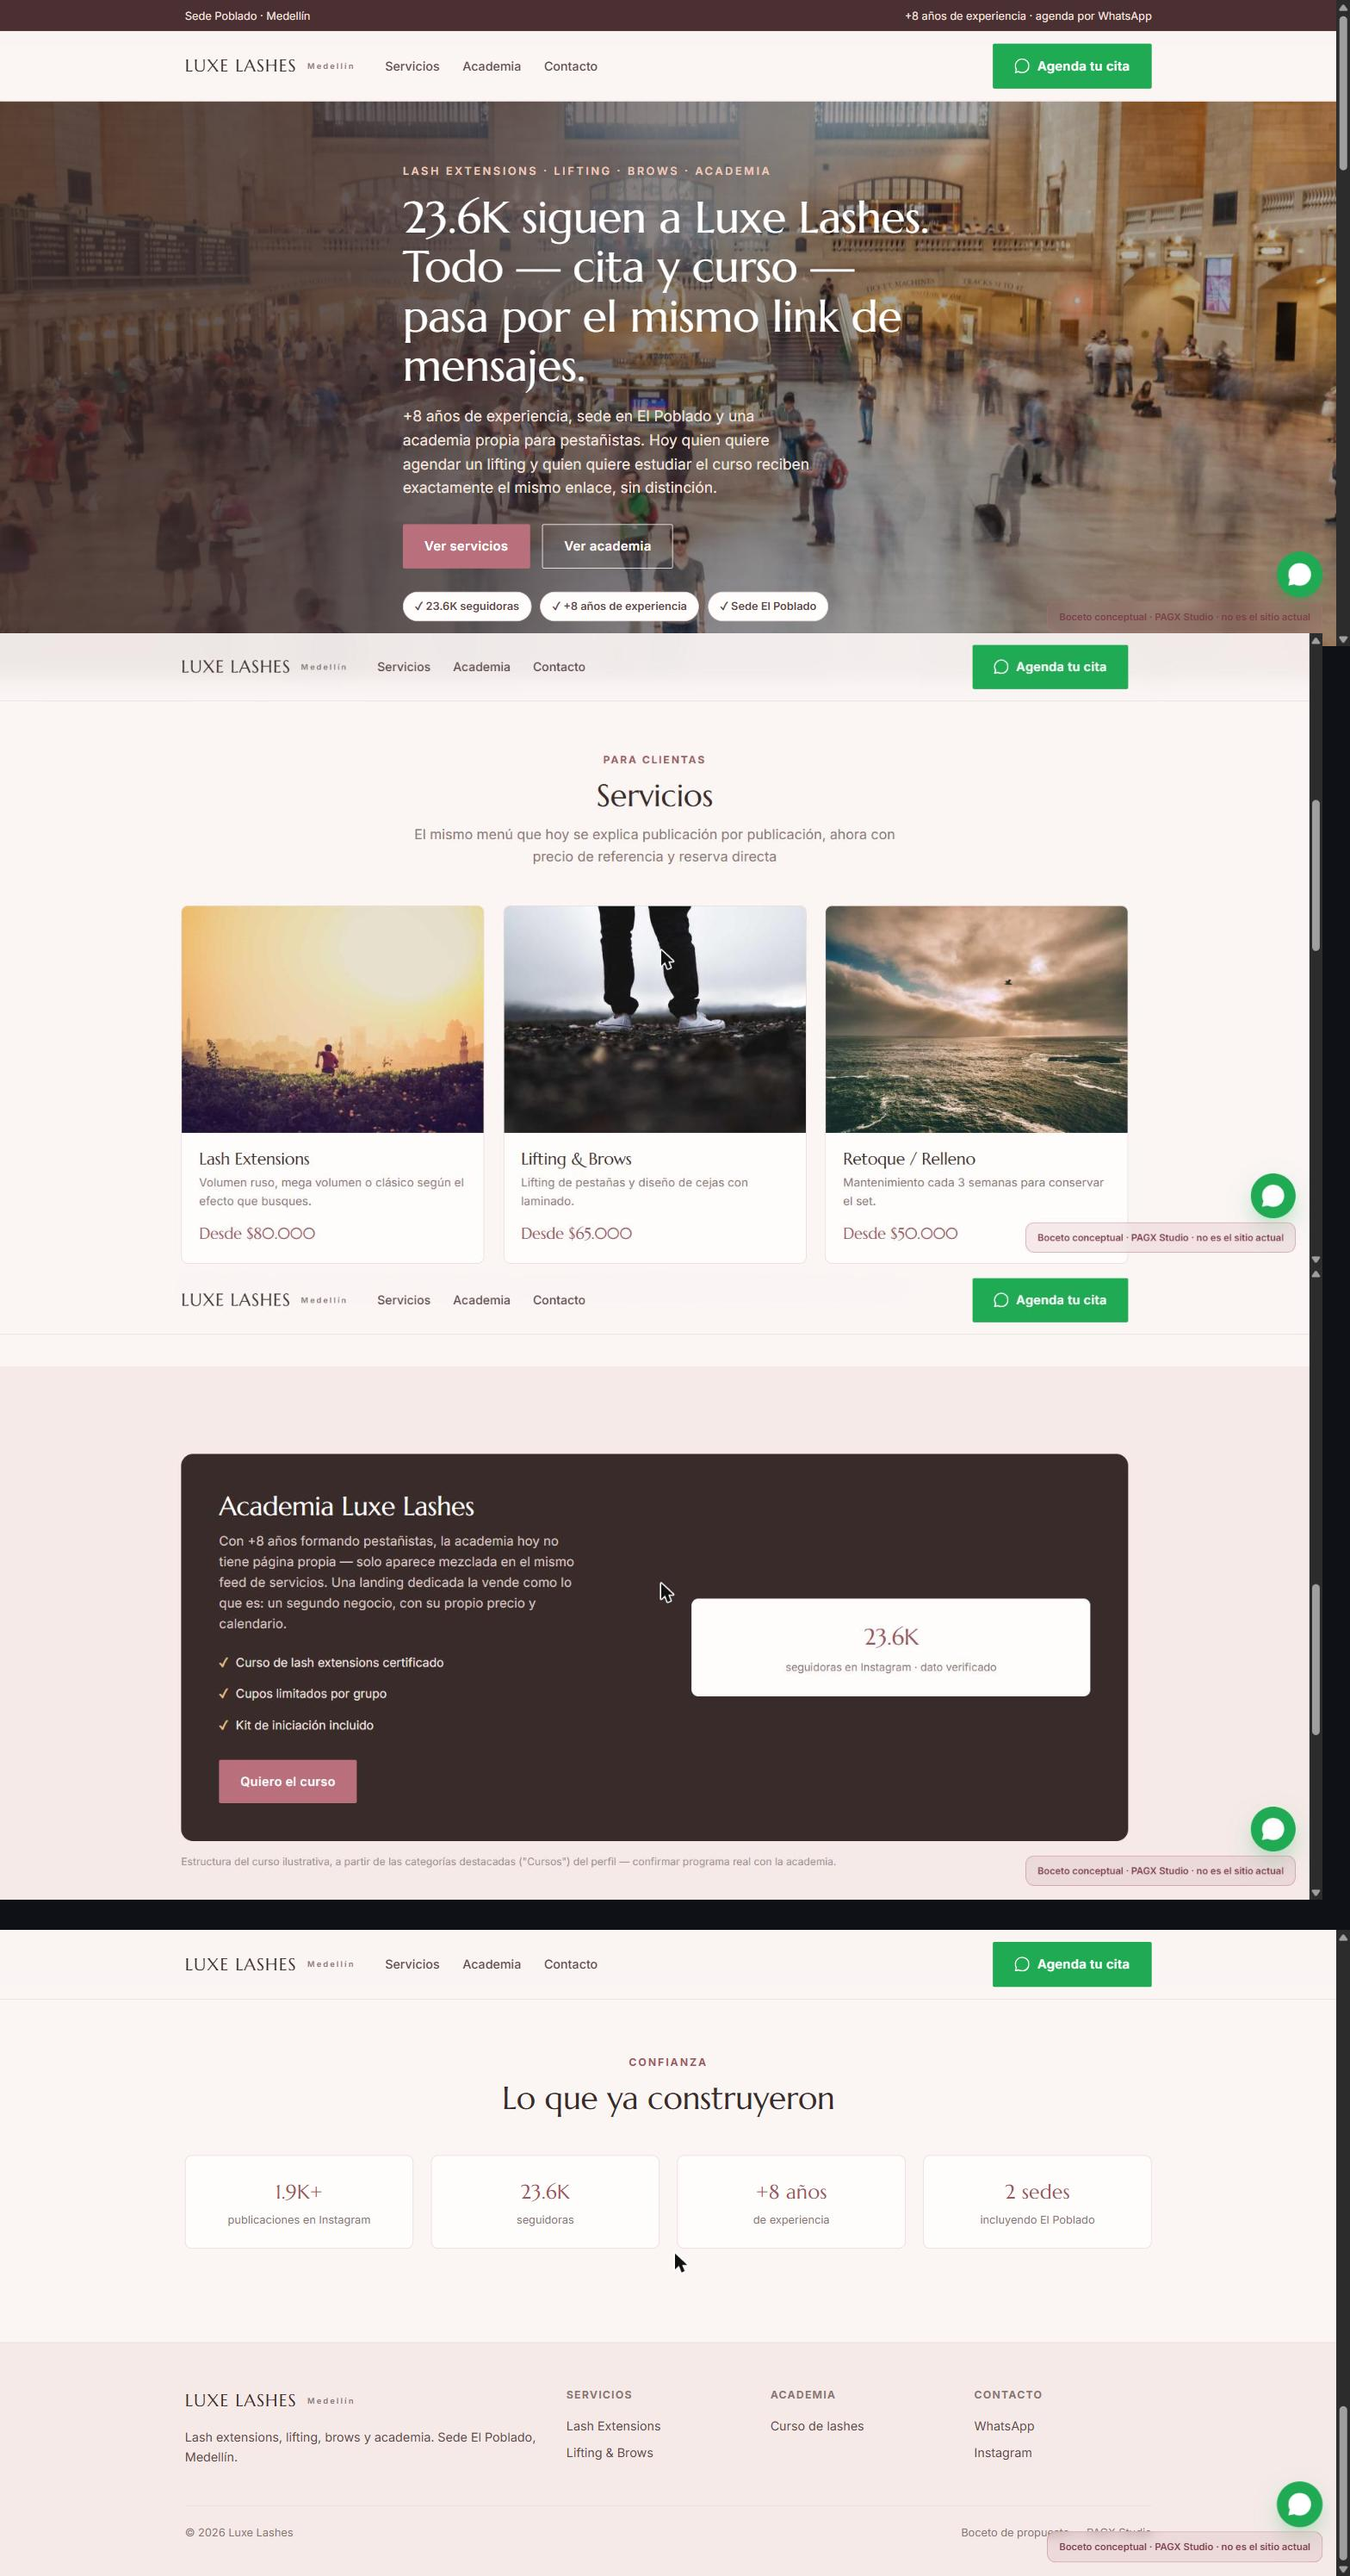
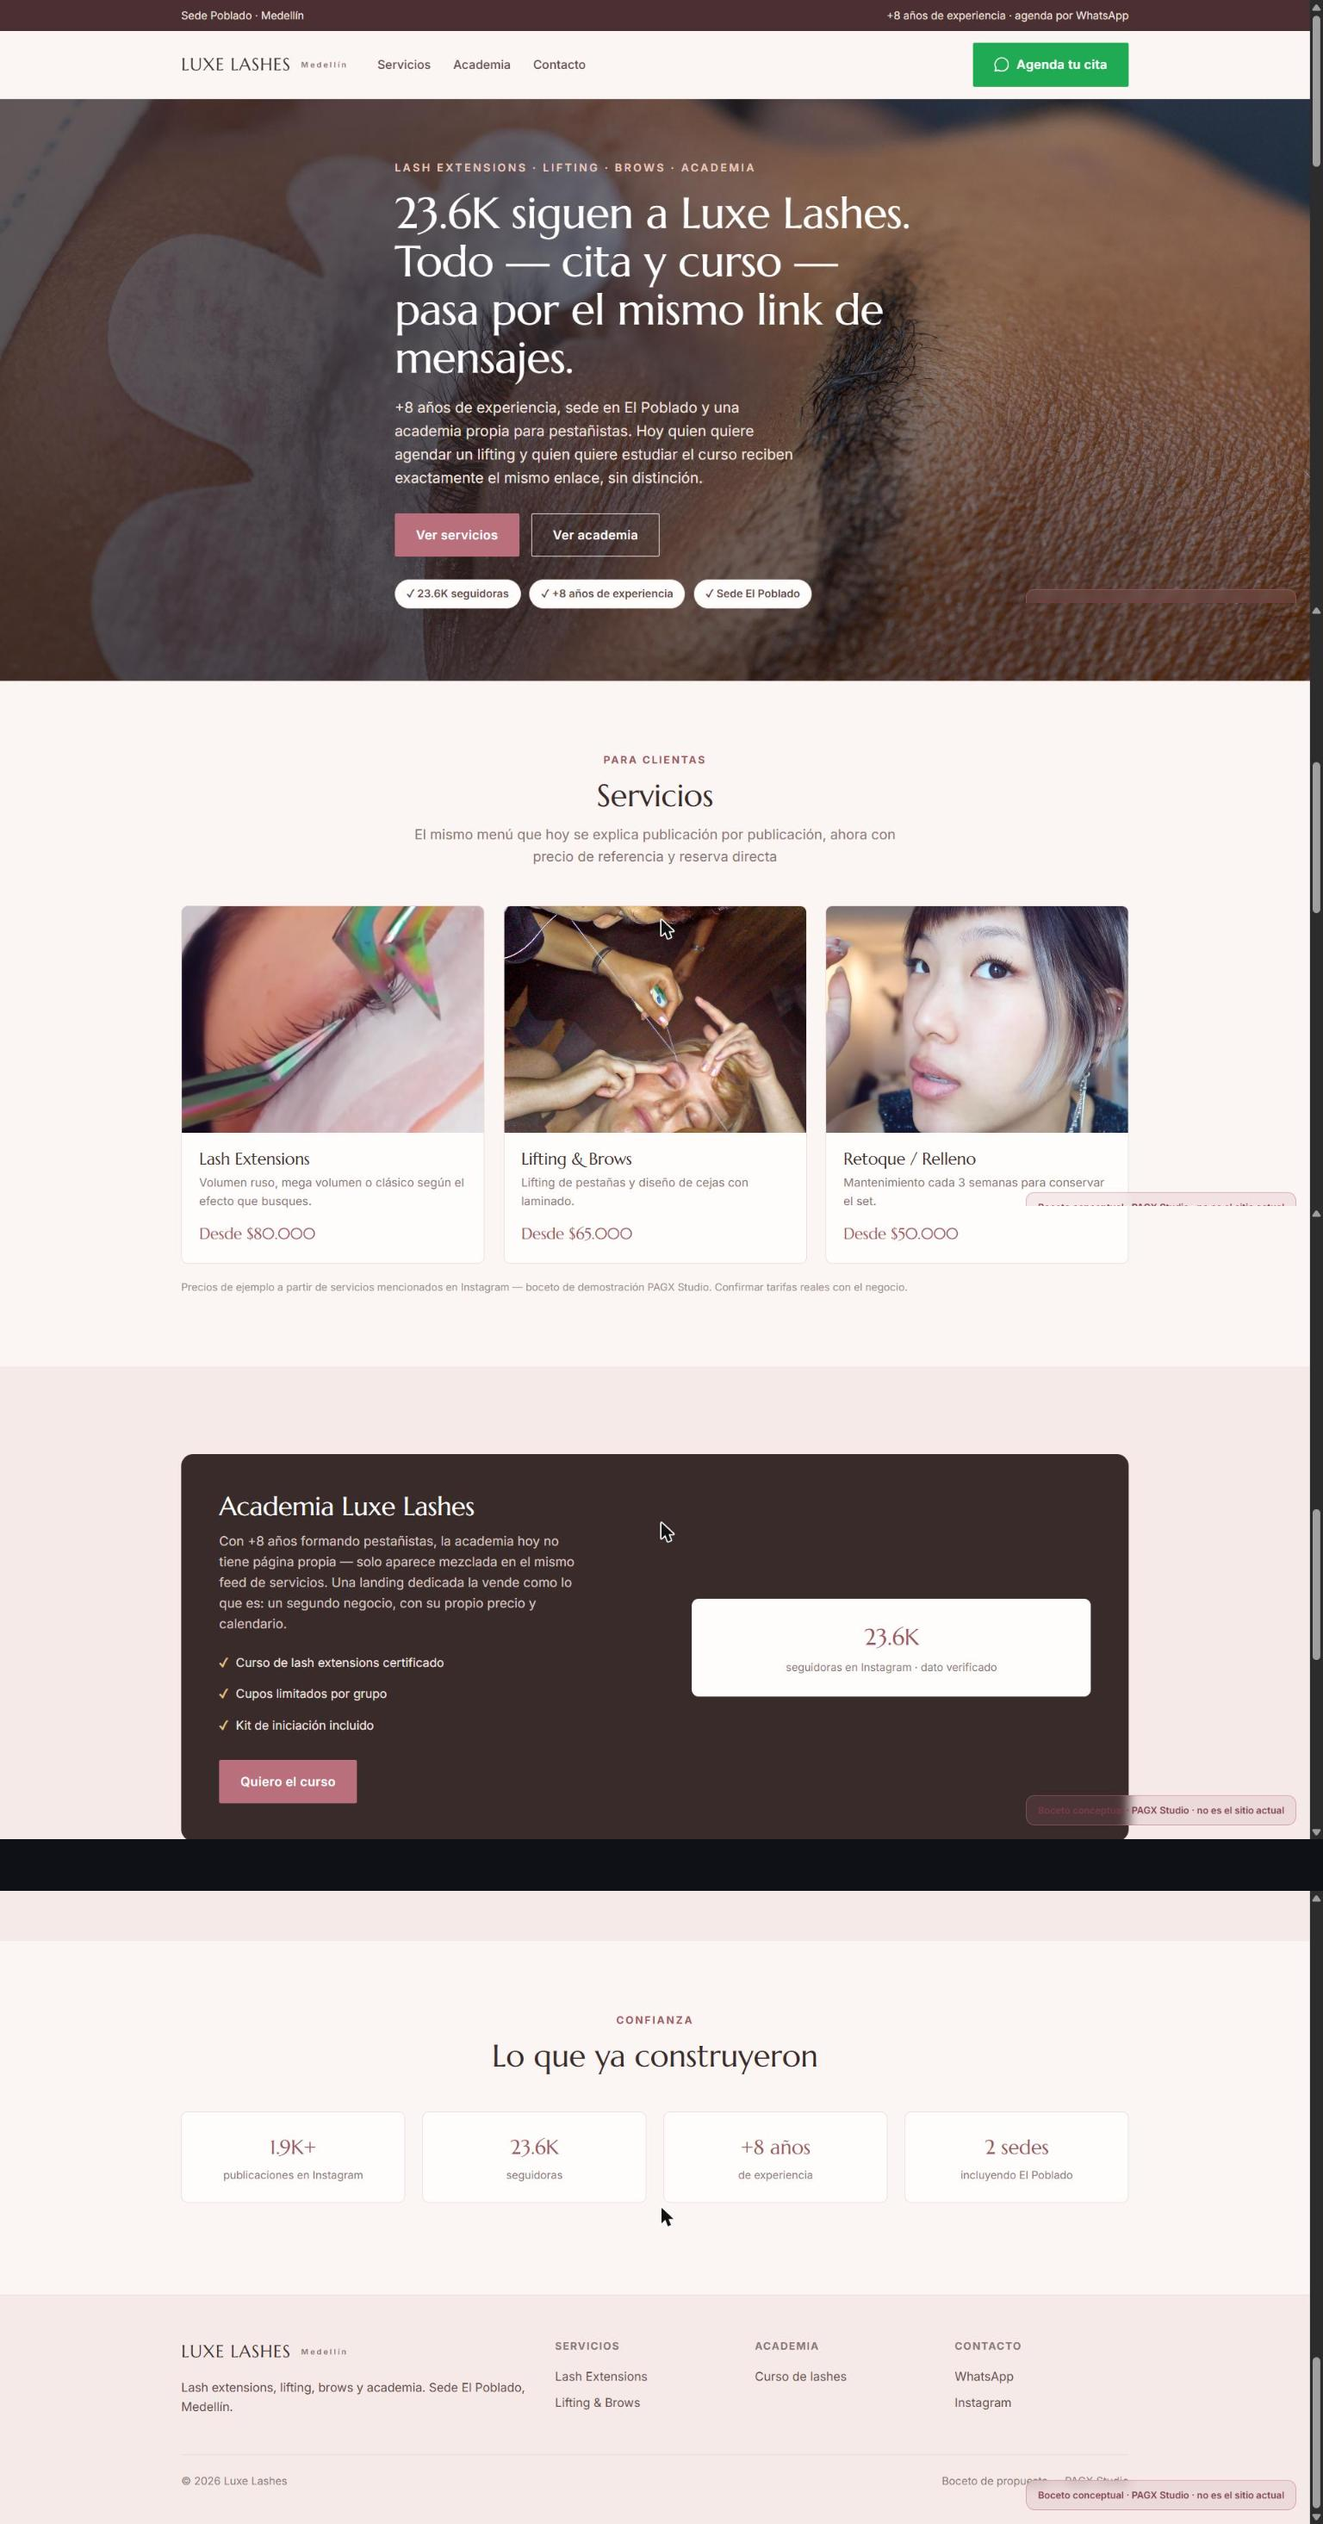
Corrige coherencia de imagenes y contenido en bocetos 21-24 vs Instagram real
Las imagenes de picsum.photos (fix anterior de fiabilidad) eran fotos
random sin relacion con el negocio. Se reemplazan por fotos reales
verificadas y tematicamente correctas por nicho:

- 21 LUX Tattoo Club: hero con tatuador trabajando + galeria con piezas
  reales estilo realismo/blackwork (igual al feed: tigre realista,
  retrato floral, mujer tradicional B&G) en vez de fotos random.
- 22 Luxe Lashes: hero + 3 servicios con procedimientos reales de
  extension de pestanas, hilo de cejas y resultado terminado, en vez
  de fotos random.
- 23 Reto120 / Juan Trainer: hero con corredores urbanos + galeria de
  entrenamiento/transformacion real, en vez de fotos random.
- 24 Celestia Events: hero + galeria con fotografia real de bodas
  (ramo, anillos, recepcion). Ademas se corrigen las iniciales de
  parejas de ejemplo (L&J, E&L, V&P, C&A) por las que realmente
  aparecen en las destacadas del perfil @celestiaevents: D&A, V&Z,
  S&A, D&R.

Verificado con medicion DOM (naturalWidth/.complete + getBoundingClientRect
del hero) en los 4 bocetos: 0 imagenes rotas, hero con altura correcta.
Se regeneraron las 4 capturas de pagina completa en bocetos/preview/ y
se re-subieron a sus fichas de Notion via tools/notion_upsert.py.

Claude-Session: https://claude.ai/code/session_012U8oskXqa1Sot1cwpLbjag

diff --git a/bocetos/21-lux-tattoo-club.html b/bocetos/21-lux-tattoo-club.html
@@ -100,7 +100,7 @@
 </div></header>
 
 <section class="hero" style="padding:0">
-  <div class="bg"><div class="ph"><img src="https://picsum.photos/seed/pagx21tattoo1/1600/900" alt=""></div></div>
+  <div class="bg"><div class="ph"><img src="https://upload.wikimedia.org/wikipedia/commons/a/a7/Italian-tattoo-artist-at-work.jpg" alt=""></div></div>
   <div class="wrap inner">
     <div class="kicker">Estudio de tatuajes · Zona T, Bogotá</div>
     <h1>7 artistas, 500+ publicaciones y ni una página propia para mostrarlo.</h1>
@@ -121,10 +121,10 @@
   <div class="wrap">
     <div class="sec-head"><div><h2>El equipo</h2><p>Cada artista con su propio estilo — hoy solo visible si alguien entra a destacadas de Instagram</p></div></div>
     <div class="artistas">
-      <div class="artista"><div class="ph"><img src="https://picsum.photos/seed/pagx21art1/400/400" alt=""></div><div class="nm">Gino</div><div class="st">Realismo &amp; blackwork</div></div>
-      <div class="artista"><div class="ph"><img src="https://picsum.photos/seed/pagx21art2/400/400" alt=""></div><div class="nm">Jaguar</div><div class="st">Fine line &amp; script</div></div>
-      <div class="artista"><div class="ph"><img src="https://picsum.photos/seed/pagx21art3/400/400" alt=""></div><div class="nm">Santi</div><div class="st">Color &amp; floral</div></div>
-      <div class="artista"><div class="ph"><img src="https://picsum.photos/seed/pagx21art4/400/400" alt=""></div><div class="nm">Steven</div><div class="st">Neo-tradicional</div></div>
+      <div class="artista"><div class="ph"><img src="https://i.pravatar.cc/400?img=53" alt=""></div><div class="nm">Gino</div><div class="st">Realismo &amp; blackwork</div></div>
+      <div class="artista"><div class="ph"><img src="https://i.pravatar.cc/400?img=59" alt=""></div><div class="nm">Jaguar</div><div class="st">Fine line &amp; script</div></div>
+      <div class="artista"><div class="ph"><img src="https://i.pravatar.cc/400?img=13" alt=""></div><div class="nm">Santi</div><div class="st">Color &amp; floral</div></div>
+      <div class="artista"><div class="ph"><img src="https://i.pravatar.cc/400?img=33" alt=""></div><div class="nm">Steven</div><div class="st">Neo-tradicional</div></div>
     </div>
     <p style="color:#847770;font-size:12px;margin-top:18px">Especialidades de ejemplo a partir del portafolio público — boceto de demostración PAGX Studio. Confirmar con cada artista.</p>
   </div>
@@ -134,10 +134,10 @@
   <div class="wrap">
     <div class="sec-head"><div><h2>Galería</h2><p>El trabajo que hoy solo vive en el feed, con su propia página para compartir</p></div></div>
     <div class="gallery">
-      <div class="ph"><img src="https://picsum.photos/seed/pagx21g1/400/400" alt=""></div>
-      <div class="ph"><img src="https://picsum.photos/seed/pagx21g2/400/400" alt=""></div>
-      <div class="ph"><img src="https://picsum.photos/seed/pagx21g3/400/400" alt=""></div>
-      <div class="ph"><img src="https://picsum.photos/seed/pagx21g4/400/400" alt=""></div>
+      <div class="ph"><img src="https://upload.wikimedia.org/wikipedia/commons/e/ed/Black_%26_Grey_Tradition_Style_Tattoo_%2812997429223%29.jpg" alt=""></div>
+      <div class="ph"><img src="https://upload.wikimedia.org/wikipedia/commons/a/ae/Tiger_tattoo_in_Belfast_Northern_Ireland.jpg" alt=""></div>
+      <div class="ph"><img src="https://upload.wikimedia.org/wikipedia/commons/e/e0/Indian_Girl_-_Traditional%2C_Black_%26_Grey_%2813113511423%29.jpg" alt=""></div>
+      <div class="ph"><img src="https://upload.wikimedia.org/wikipedia/commons/d/db/Matt_(20363131853).jpg" alt=""></div>
     </div>
   </div>
 </section>

diff --git a/bocetos/22-luxe-lashes-medellin.html b/bocetos/22-luxe-lashes-medellin.html
@@ -106,7 +106,7 @@
 </div></header>
 
 <section class="hero" style="padding:0">
-  <div class="bg"><div class="ph"><img src="https://picsum.photos/seed/pagx22lash1/1600/900" alt=""></div></div>
+  <div class="bg"><div class="ph"><img src="https://upload.wikimedia.org/wikipedia/commons/5/5f/Professional_Eyelash_Extension_Preparation.jpg" alt=""></div></div>
   <div class="wrap inner">
     <div class="kicker">Lash Extensions · Lifting · Brows · Academia</div>
     <h1>23.6K siguen a Luxe Lashes. Todo — cita y curso — pasa por el mismo link de mensajes.</h1>
@@ -127,9 +127,9 @@
   <div class="wrap">
     <div class="sec-head"><div class="k">Para clientas</div><h2>Servicios</h2><p>El mismo menú que hoy se explica publicación por publicación, ahora con precio de referencia y reserva directa</p></div>
     <div class="svc-grid">
-      <div class="svc"><div class="ph"><img src="https://picsum.photos/seed/pagx22s1/560/420" alt=""></div><div class="body"><h3>Lash Extensions</h3><p>Volumen ruso, mega volumen o clásico según el efecto que busques.</p><div class="price">Desde $80.000</div></div></div>
-      <div class="svc"><div class="ph"><img src="https://picsum.photos/seed/pagx22s2/560/420" alt=""></div><div class="body"><h3>Lifting &amp; Brows</h3><p>Lifting de pestañas y diseño de cejas con laminado.</p><div class="price">Desde $65.000</div></div></div>
-      <div class="svc"><div class="ph"><img src="https://picsum.photos/seed/pagx22s3/560/420" alt=""></div><div class="body"><h3>Retoque / Relleno</h3><p>Mantenimiento cada 3 semanas para conservar el set.</p><div class="price">Desde $50.000</div></div></div>
+      <div class="svc"><div class="ph"><img src="https://upload.wikimedia.org/wikipedia/commons/6/63/Namee_Park_-_eyelash_extensions_1_%28cropped%29.png" alt=""></div><div class="body"><h3>Lash Extensions</h3><p>Volumen ruso, mega volumen o clásico según el efecto que busques.</p><div class="price">Desde $80.000</div></div></div>
+      <div class="svc"><div class="ph"><img src="https://upload.wikimedia.org/wikipedia/commons/3/35/Woman_getting_her_eyebrows_threaded.jpg" alt=""></div><div class="body"><h3>Lifting &amp; Brows</h3><p>Lifting de pestañas y diseño de cejas con laminado.</p><div class="price">Desde $65.000</div></div></div>
+      <div class="svc"><div class="ph"><img src="https://upload.wikimedia.org/wikipedia/commons/5/56/Namee_Park_-_eyelash_extensions_2.png" alt=""></div><div class="body"><h3>Retoque / Relleno</h3><p>Mantenimiento cada 3 semanas para conservar el set.</p><div class="price">Desde $50.000</div></div></div>
     </div>
     <p style="color:#a08e8c;font-size:12px;margin-top:18px">Precios de ejemplo a partir de servicios mencionados en Instagram — boceto de demostración PAGX Studio. Confirmar tarifas reales con el negocio.</p>
   </div>

diff --git a/bocetos/24-celestia-events.html b/bocetos/24-celestia-events.html
@@ -95,7 +95,7 @@
 </div></header>
 
 <section class="hero">
-  <div class="bg"><div class="ph"><img src="https://picsum.photos/seed/pagx24wed1/1600/900" alt=""></div></div>
+  <div class="bg"><div class="ph"><img src="https://images.unsplash.com/photo-1519741497674-611481863552?w=1600&h=900&fit=crop&q=70" alt=""></div></div>
   <div class="wrap inner">
     <div class="kicker">Wedding planner · destination weddings Colombia</div>
     <h1>10.3K siguen las bodas de Celestia. Hoy todo el contacto vive en un link de Linktree.</h1>
@@ -111,10 +111,10 @@
   <div class="wrap">
     <div class="sec-head"><div class="k">Portafolio</div><h2>Bodas reales</h2><p>Las mismas parejas que hoy solo aparecen como iniciales guardadas en destacadas de Instagram</p></div>
     <div class="weddings">
-      <div class="wd"><div class="ph"><img src="https://picsum.photos/seed/pagx24w1/380/500" alt=""></div><div class="tag">L &amp; J</div></div>
-      <div class="wd"><div class="ph"><img src="https://picsum.photos/seed/pagx24w2/380/500" alt=""></div><div class="tag">E &amp; L</div></div>
-      <div class="wd"><div class="ph"><img src="https://picsum.photos/seed/pagx24w3/380/500" alt=""></div><div class="tag">V &amp; P</div></div>
-      <div class="wd"><div class="ph"><img src="https://picsum.photos/seed/pagx24w4/380/500" alt=""></div><div class="tag">C &amp; A</div></div>
+      <div class="wd"><div class="ph"><img src="https://images.unsplash.com/photo-1465495976277-4387d4b0b4c6?w=380&h=500&fit=crop&q=70" alt=""></div><div class="tag">D &amp; A</div></div>
+      <div class="wd"><div class="ph"><img src="https://images.unsplash.com/photo-1606800052052-a08af7148866?w=380&h=500&fit=crop&q=70" alt=""></div><div class="tag">V &amp; Z</div></div>
+      <div class="wd"><div class="ph"><img src="https://images.unsplash.com/photo-1519167758481-83f550bb49b3?w=380&h=500&fit=crop&q=70" alt=""></div><div class="tag">S &amp; A</div></div>
+      <div class="wd"><div class="ph"><img src="https://images.unsplash.com/photo-1519741497674-611481863552?w=380&h=500&fit=crop&q=70" alt=""></div><div class="tag">D &amp; R</div></div>
     </div>
     <p style="color:#a89c85;font-size:12px;margin-top:18px">Nombres de ejemplo — la referencia real (iniciales de parejas) proviene de las destacadas públicas del perfil. Boceto de demostración PAGX Studio.</p>
   </div>

diff --git a/bocetos/23-reto120-juan-trainer.html b/bocetos/23-reto120-juan-trainer.html
@@ -100,7 +100,7 @@
 </div></header>
 
 <section class="hero" style="padding:0">
-  <div class="bg"><div class="ph"><img src="https://picsum.photos/seed/pagx23fit1/1600/900" alt=""></div></div>
+  <div class="bg"><div class="ph"><img src="https://images.unsplash.com/photo-1552674605-db6ffd4facb5?w=1600&h=900&fit=crop&q=70" alt=""></div></div>
   <div class="wrap inner">
     <div class="kicker">Entrenador certificado · Medellín</div>
     <h1>85.3 mil te siguen por el Reto120. Todavía no hay página donde verlo antes de escribir.</h1>
@@ -133,10 +133,10 @@
   <div class="wrap">
     <div class="sec-head"><div><h2>Transformaciones</h2><p>El contenido que hoy vive disperso en el feed, reunido en una sola galería</p></div></div>
     <div class="gallery">
-      <div class="ph"><img src="https://picsum.photos/seed/pagx23g1/400/400" alt=""></div>
-      <div class="ph"><img src="https://picsum.photos/seed/pagx23g2/400/400" alt=""></div>
-      <div class="ph"><img src="https://picsum.photos/seed/pagx23g3/400/400" alt=""></div>
-      <div class="ph"><img src="https://picsum.photos/seed/pagx23g4/400/400" alt=""></div>
+      <div class="ph"><img src="https://images.unsplash.com/photo-1541534741688-6078c6bfb5c5?w=400&h=400&fit=crop&q=70" alt=""></div>
+      <div class="ph"><img src="https://images.unsplash.com/photo-1517836357463-d25dfeac3438?w=400&h=400&fit=crop&q=70" alt=""></div>
+      <div class="ph"><img src="https://images.unsplash.com/photo-1571019613454-1cb2f99b2d8b?w=400&h=400&fit=crop&q=70" alt=""></div>
+      <div class="ph"><img src="https://images.unsplash.com/photo-1571902943202-507ec2618e8f?w=400&h=400&fit=crop&q=70" alt=""></div>
     </div>
   </div>
 </section>
